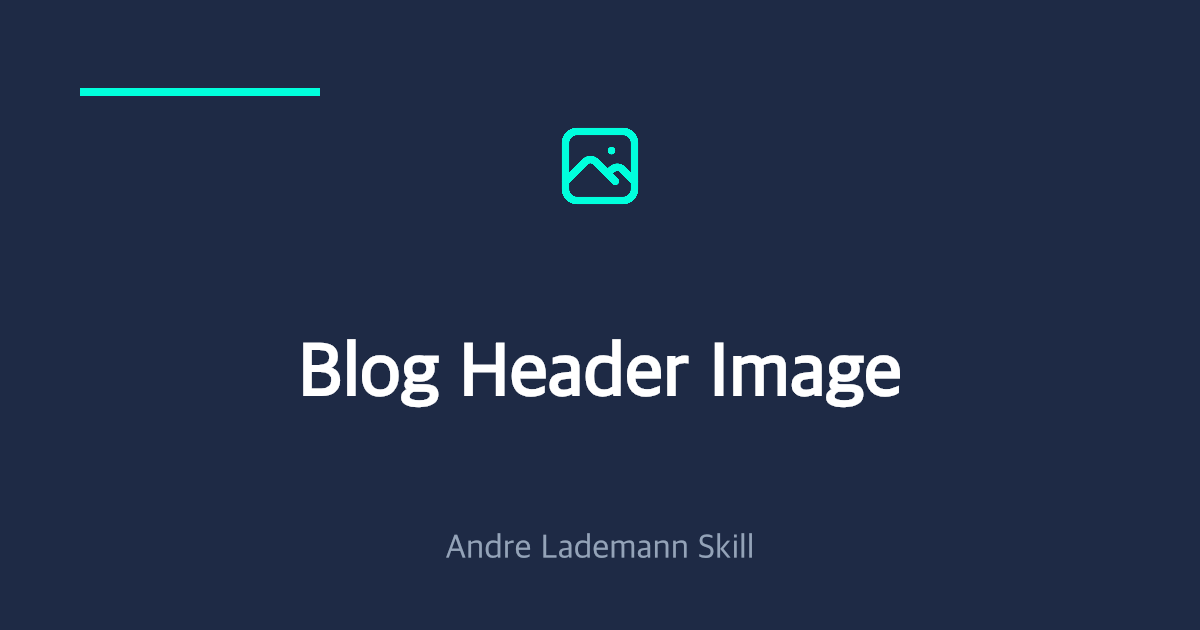
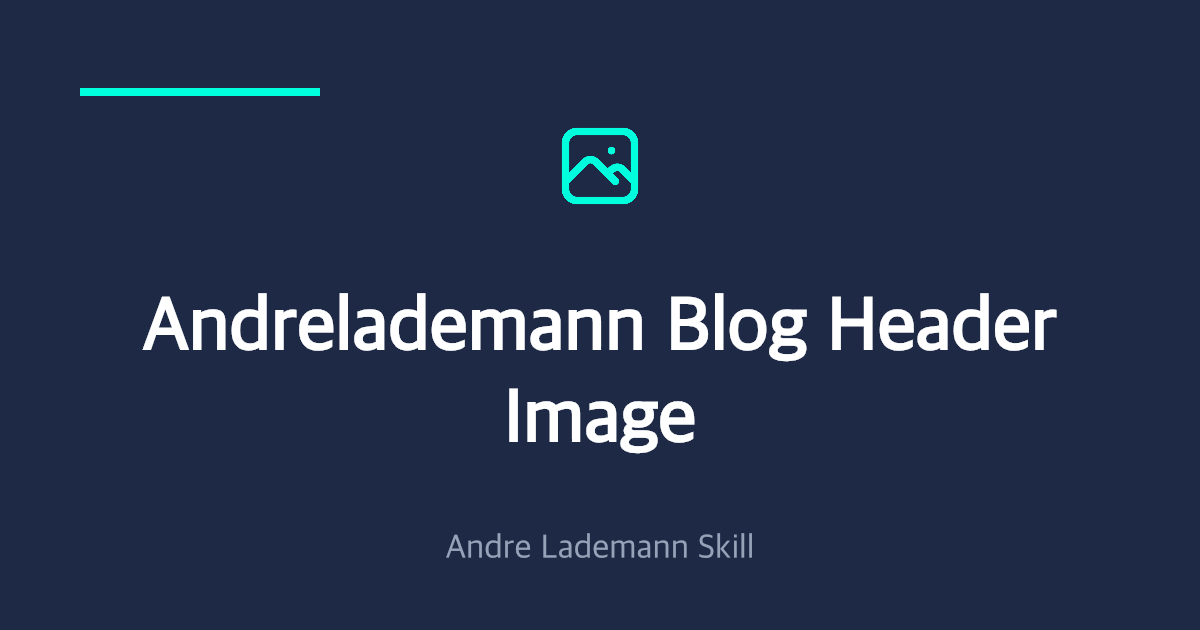
feat(skills): add Google Trends topic scout

Changed region(s): [[0.1233, 0.4524, 0.8942, 0.7238]]

diff --git a/README.md b/README.md
@@ -54,6 +54,6 @@ Alle Integrationsvorlagen sind unter [`integrations/`](integrations/) gesammelt.
 
 ## Skills
 
-Die Katalog-Skills stehen in [`index.json`](index.json). Die fachliche Quelle jedes Eintrags ist die verlinkte `SKILL.md`; zusätzliche Skill-Metadaten liegen jeweils in `metadata.json`.
+Die Skills stehen im Katalog [`index.json`](index.json). Die fachliche Quelle jedes Eintrags ist die verlinkte `SKILL.md`; zusätzliche Skill-Metadaten liegen jeweils in `metadata.json`.
 
 Weitere Entwicklungs-, Build- und Release-Informationen stehen in [`CONTRIBUTING.md`](CONTRIBUTING.md).

diff --git a/skills/research/google-trends-topic-scout/SKILL.md b/skills/research/google-trends-topic-scout/SKILL.md
@@ -1,7 +1,7 @@
 ---
 name: google-trends-topic-scout
 description: Find and rank currently rising Google Trends topics that match André Lademann's content themes, with source-backed angles and explicit spike-versus-sustained confidence. Use when looking for timely blog topics or editorial opportunities; do not use it to draft the article itself.
-version: 2.4.1
+version: 2.5.0
 ---
 
 # Google Trends Topic Scout
